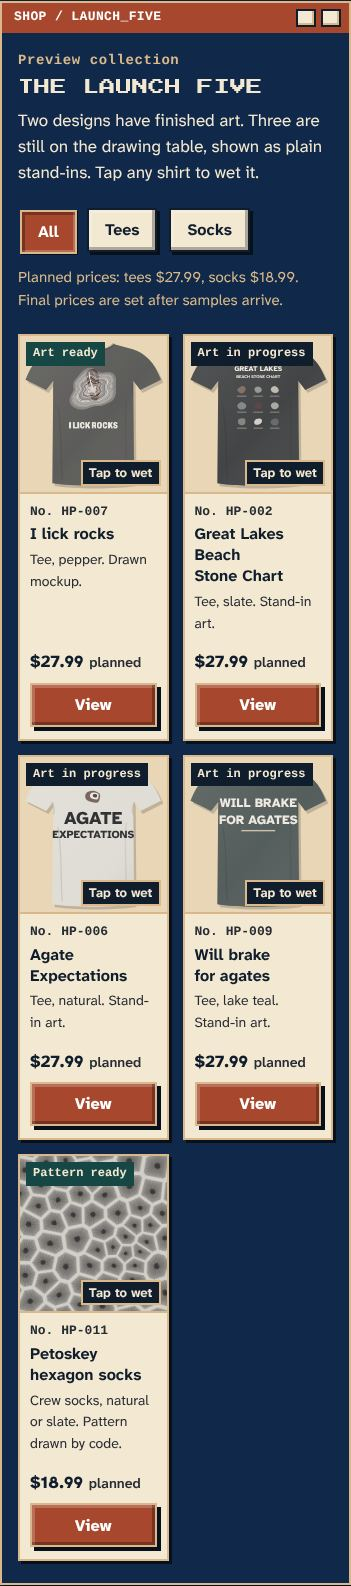
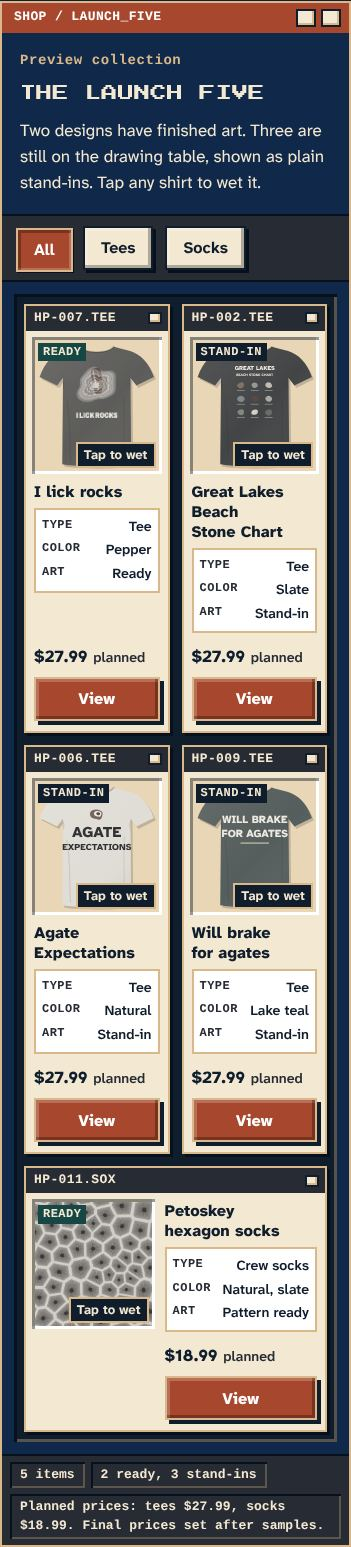
Rework the shop as a retro file window
Toolbar with filters, a sunken pane, product windows whose title bars
turn rust when active, a stats box per item, and a status bar that
updates with the filter. Five across on desktop, two on phones.

Claude-Session: https://claude.ai/code/session_01AdWLFtHpwbtihYBfYsohYt

diff --git a/theme/v2/index.html b/theme/v2/index.html
@@ -64,120 +64,138 @@
 </div>
 
 <!-- ================= SHOP ================= -->
-<section class="win" id="shop" aria-labelledby="shop-h">
+<section class="win shop" id="shop" aria-labelledby="shop-h">
   <div class="bar"><span>SHOP / LAUNCH_FIVE</span><span class="ctrls" aria-hidden="true"><i></i><i></i></span></div>
-  <div class="win__body">
-    <div class="sec-head">
-      <div>
-        <span class="kicker">Preview collection</span>
-        <h2 class="px px-h" id="shop-h">The launch five</h2>
-      </div>
-      <p>Two designs have finished art. Three are still on the drawing table, shown as plain stand-ins. Tap any shirt to wet it.</p>
+  <div class="shop__head">
+    <span class="kicker">Preview collection</span>
+    <h2 class="px px-h" id="shop-h">The launch five</h2>
+    <p>Two designs have finished art. Three are still on the drawing table, shown as plain stand-ins. Tap any shirt to wet it.</p>
+  </div>
+  <div class="toolbar">
+    <div class="tabs" role="group" aria-label="Filter products">
+      <button class="tab" type="button" data-filter="all" aria-pressed="true">All</button>
+      <button class="tab" type="button" data-filter="tee" aria-pressed="false">Tees</button>
+      <button class="tab" type="button" data-filter="socks" aria-pressed="false">Socks</button>
     </div>
-    <div class="shop-tools">
-      <div class="tabs" role="group" aria-label="Filter products">
-        <button class="tab" type="button" data-filter="all" aria-pressed="true">All</button>
-        <button class="tab" type="button" data-filter="tee" aria-pressed="false">Tees</button>
-        <button class="tab" type="button" data-filter="socks" aria-pressed="false">Socks</button>
-      </div>
-      <p class="price-note" id="price-note">Planned prices: tees $27.99, socks $18.99. Final prices are set after samples arrive.</p>
-    </div>
-    <p class="visually-hidden" role="status" aria-live="polite" id="filter-status"></p>
+  </div>
+  <div class="pane">
     <div class="grid" id="grid">
-      <!-- cards are listed here so the page works without JavaScript; JS adds the art -->
-      <article class="card" data-kind="tee" data-id="lick">
-        <div class="card__media">
-          <span class="tag tag--ready">Art ready</span>
+      <article class="item" data-kind="tee" data-id="lick">
+        <div class="item__bar"><span class="mono">HP-007.TEE</span><span class="ctrls" aria-hidden="true"><i></i></span></div>
+        <div class="item__well">
+          <span class="chip chip--ready">READY</span>
           <button class="wet hoverable" type="button" aria-pressed="false" aria-label="Wet the I lick rocks shirt mockup">
             <span class="wet-media panel" data-tee="lick"></span>
             <span class="wet-hint" aria-hidden="true"><span class="is-dry">Tap to wet</span><span class="is-wet">Wet</span></span>
           </button>
         </div>
-        <div class="card__body">
-          <span class="spec">No. HP-007</span>
+        <div class="item__body">
           <h3>I lick rocks</h3>
-          <p class="meta">Tee, pepper. Drawn mockup.</p>
-          <div class="card__foot">
-            <span class="price">$27.99 <small>planned</small></span>
+          <dl class="stats">
+            <div><dt>TYPE</dt><dd>Tee</dd></div>
+            <div><dt>COLOR</dt><dd>Pepper</dd></div>
+            <div><dt>ART</dt><dd>Ready</dd></div>
+          </dl>
+          <div class="item__foot">
+            <p class="price">$27.99 <small>planned</small></p>
             <a class="btn btn--small" href="#product" data-view="lick">View<span class="visually-hidden"> I lick rocks</span></a>
           </div>
         </div>
       </article>
-      <article class="card" data-kind="tee" data-id="chart">
-        <div class="card__media">
-          <span class="tag">Art in progress</span>
+      <article class="item" data-kind="tee" data-id="chart">
+        <div class="item__bar"><span class="mono">HP-002.TEE</span><span class="ctrls" aria-hidden="true"><i></i></span></div>
+        <div class="item__well">
+          <span class="chip">STAND-IN</span>
           <button class="wet hoverable" type="button" aria-pressed="false" aria-label="Wet the Great Lakes Beach Stone Chart stand-in">
             <span class="wet-media panel" data-tee="chart"></span>
             <span class="wet-hint" aria-hidden="true"><span class="is-dry">Tap to wet</span><span class="is-wet">Wet</span></span>
           </button>
         </div>
-        <div class="card__body">
-          <span class="spec">No. HP-002</span>
+        <div class="item__body">
           <h3>Great Lakes Beach Stone Chart</h3>
-          <p class="meta">Tee, slate. Stand-in art.</p>
-          <div class="card__foot">
-            <span class="price">$27.99 <small>planned</small></span>
+          <dl class="stats">
+            <div><dt>TYPE</dt><dd>Tee</dd></div>
+            <div><dt>COLOR</dt><dd>Slate</dd></div>
+            <div><dt>ART</dt><dd>Stand-in</dd></div>
+          </dl>
+          <div class="item__foot">
+            <p class="price">$27.99 <small>planned</small></p>
             <a class="btn btn--small" href="#product" data-view="chart">View<span class="visually-hidden"> Great Lakes Beach Stone Chart</span></a>
           </div>
         </div>
       </article>
-      <article class="card" data-kind="tee" data-id="expect">
-        <div class="card__media">
-          <span class="tag">Art in progress</span>
+      <article class="item" data-kind="tee" data-id="expect">
+        <div class="item__bar"><span class="mono">HP-006.TEE</span><span class="ctrls" aria-hidden="true"><i></i></span></div>
+        <div class="item__well">
+          <span class="chip">STAND-IN</span>
           <button class="wet hoverable" type="button" aria-pressed="false" aria-label="Wet the Agate Expectations stand-in">
             <span class="wet-media panel" data-tee="expect"></span>
             <span class="wet-hint" aria-hidden="true"><span class="is-dry">Tap to wet</span><span class="is-wet">Wet</span></span>
           </button>
         </div>
-        <div class="card__body">
-          <span class="spec">No. HP-006</span>
+        <div class="item__body">
           <h3>Agate Expectations</h3>
-          <p class="meta">Tee, natural. Stand-in art.</p>
-          <div class="card__foot">
-            <span class="price">$27.99 <small>planned</small></span>
+          <dl class="stats">
+            <div><dt>TYPE</dt><dd>Tee</dd></div>
+            <div><dt>COLOR</dt><dd>Natural</dd></div>
+            <div><dt>ART</dt><dd>Stand-in</dd></div>
+          </dl>
+          <div class="item__foot">
+            <p class="price">$27.99 <small>planned</small></p>
             <a class="btn btn--small" href="#product" data-view="expect">View<span class="visually-hidden"> Agate Expectations</span></a>
           </div>
         </div>
       </article>
-      <article class="card" data-kind="tee" data-id="brake">
-        <div class="card__media">
-          <span class="tag">Art in progress</span>
+      <article class="item" data-kind="tee" data-id="brake">
+        <div class="item__bar"><span class="mono">HP-009.TEE</span><span class="ctrls" aria-hidden="true"><i></i></span></div>
+        <div class="item__well">
+          <span class="chip">STAND-IN</span>
           <button class="wet hoverable" type="button" aria-pressed="false" aria-label="Wet the Will brake for agates stand-in">
             <span class="wet-media panel" data-tee="brake"></span>
             <span class="wet-hint" aria-hidden="true"><span class="is-dry">Tap to wet</span><span class="is-wet">Wet</span></span>
           </button>
         </div>
-        <div class="card__body">
-          <span class="spec">No. HP-009</span>
+        <div class="item__body">
           <h3>Will brake for agates</h3>
-          <p class="meta">Tee, lake teal. Stand-in art.</p>
-          <div class="card__foot">
-            <span class="price">$27.99 <small>planned</small></span>
+          <dl class="stats">
+            <div><dt>TYPE</dt><dd>Tee</dd></div>
+            <div><dt>COLOR</dt><dd>Lake teal</dd></div>
+            <div><dt>ART</dt><dd>Stand-in</dd></div>
+          </dl>
+          <div class="item__foot">
+            <p class="price">$27.99 <small>planned</small></p>
             <a class="btn btn--small" href="#product" data-view="brake">View<span class="visually-hidden"> Will brake for agates</span></a>
           </div>
         </div>
       </article>
-      <article class="card" data-kind="socks" data-id="socks">
-        <div class="card__media">
-          <span class="tag tag--ready">Pattern ready</span>
+      <article class="item" data-kind="socks" data-id="socks">
+        <div class="item__bar"><span class="mono">HP-011.SOX</span><span class="ctrls" aria-hidden="true"><i></i></span></div>
+        <div class="item__well">
+          <span class="chip chip--ready">READY</span>
           <button class="wet hoverable" type="button" aria-pressed="false" aria-label="Wet the Petoskey hexagon sock pattern">
-            <span class="wet-media socks-one">
-              <img src="../preview/img/socks_natural.jpg" alt="Petoskey hexagon sock pattern in natural gray" width="720" height="720" loading="lazy">
-            </span>
+            <span class="wet-media socks-one"><img src="../preview/img/socks_natural.jpg" alt="Petoskey hexagon sock pattern in natural gray" width="720" height="720" loading="lazy"></span>
             <span class="wet-hint" aria-hidden="true"><span class="is-dry">Tap to wet</span><span class="is-wet">Wet</span></span>
           </button>
         </div>
-        <div class="card__body">
-          <span class="spec">No. HP-011</span>
+        <div class="item__body">
           <h3>Petoskey hexagon socks</h3>
-          <p class="meta">Crew socks, natural or slate. Pattern drawn by code.</p>
-          <div class="card__foot">
-            <span class="price">$18.99 <small>planned</small></span>
+          <dl class="stats">
+            <div><dt>TYPE</dt><dd>Crew socks</dd></div>
+            <div><dt>COLOR</dt><dd>Natural, slate</dd></div>
+            <div><dt>ART</dt><dd>Pattern ready</dd></div>
+          </dl>
+          <div class="item__foot">
+            <p class="price">$18.99 <small>planned</small></p>
             <a class="btn btn--small" href="#product" data-view="socks">View<span class="visually-hidden"> Petoskey hexagon socks</span></a>
           </div>
         </div>
       </article>
     </div>
+  </div>
+  <div class="statusbar">
+    <p class="cell" role="status" aria-live="polite" id="filter-status">5 items</p>
+    <p class="cell">2 ready, 3 stand-ins</p>
+    <p class="cell cell--wide">Planned prices: tees $27.99, socks $18.99. Final prices set after samples.</p>
   </div>
 </section>
 

diff --git a/theme/v2/storefront.css b/theme/v2/storefront.css
@@ -121,7 +121,7 @@ h1,h2,h3{margin:0;line-height:1.25;text-wrap:balance}
 /* variants */
 .btn--secondary{--face:var(--hp-cream);--ink-on:var(--hp-ink);--edge:var(--hp-ink)}
 @media (hover:hover){.btn--secondary:hover{--face:var(--hp-white)}}
-.win--light .btn--secondary,.card .btn--secondary{--drop:var(--hp-ink)}
+.win--light .btn--secondary{--drop:var(--hp-ink)}
 .btn--block{width:100%}
 .btn--small{min-height:44px;padding:8px 14px;font-size:16px}
 
@@ -188,22 +188,46 @@ h1,h2,h3{margin:0;line-height:1.25;text-wrap:balance}
 /* =========================================================
    SHOP
    ========================================================= */
-.shop-tools{display:flex;flex-wrap:wrap;align-items:center;justify-content:space-between;gap:14px 20px;margin-bottom:22px}
-.price-note{margin:0;font-size:15px;color:var(--hp-sand)}
-.grid{display:grid;grid-template-columns:repeat(auto-fit,minmax(min(100%,200px),1fr));gap:22px}
-.card{display:flex;flex-direction:column;background:var(--hp-cream);color:var(--hp-ink);border:2px solid var(--hp-sand);box-shadow:4px 4px 0 var(--hp-shadow-deep)}
-.card[hidden]{display:none}
-.card__media{position:relative;background:var(--well);border-bottom:2px solid var(--hp-sand)}
-.card__body{display:flex;flex-direction:column;gap:6px;flex:1;padding:14px 16px 16px}
-.card h3{font-size:19px;font-weight:700;line-height:1.3}
-.card .meta{margin:0;font-size:15px;color:var(--hp-graphite)}
-.price{font-weight:800;font-size:19px}
+/* The shop is one application window: heading, toolbar, a sunken pane that
+   holds the item windows, and a status bar. Same chrome as the rest of the site. */
+.shop__head{display:grid;gap:6px;padding:clamp(18px,3vw,32px) clamp(18px,3vw,36px) 18px}
+.shop__head p{max-width:62ch;margin:6px 0 0}
+.toolbar{display:flex;flex-wrap:wrap;align-items:center;gap:10px 16px;padding:12px clamp(12px,3vw,36px) 14px;background:var(--hp-graphite);border-block:2px solid var(--hp-shadow-deep)}
+/* sunken pane: dark top-left edge, light bottom-right edge, like a 90s list view */
+.pane{margin:clamp(12px,2vw,24px) clamp(12px,3vw,36px);padding:clamp(12px,2vw,24px);background:var(--hp-ink);
+  box-shadow:inset 3px 3px 0 var(--hp-shadow-deep), inset -3px -3px 0 rgba(217,185,139,.35)}
+.grid{display:grid;grid-template-columns:repeat(auto-fit,minmax(min(100%,180px),1fr));gap:20px}
+
+/* each product is a small window. Inactive title bar is graphite; it turns
+   rust (the active-window color) when you hover it or tab into it. */
+.item{display:flex;flex-direction:column;min-width:0;background:var(--hp-cream);color:var(--hp-ink);border:2px solid var(--hp-sand);box-shadow:4px 4px 0 var(--hp-shadow-deep)}
+.item[hidden]{display:none}
+.item__bar{display:flex;align-items:center;justify-content:space-between;gap:8px;padding:4px 6px 4px 8px;background:var(--hp-graphite);color:var(--hp-cream);font:700 13px/1.3 var(--hp-font-metadata);letter-spacing:.03em;transition:background-color var(--press) linear}
+.item__bar .ctrls i{width:14px;height:12px;border-width:2px}
+.item:focus-within .item__bar{background:var(--hp-rust);color:var(--hp-white)}
+@media (hover:hover){.item:hover .item__bar{background:var(--hp-rust);color:var(--hp-white)}}
+.item__well{position:relative;margin:8px 8px 0;background:var(--well);
+  box-shadow:inset 3px 3px 0 rgba(16,29,44,.45), inset -3px -3px 0 var(--hp-white)}
+.item__well .wet{padding:3px}
+.chip{position:absolute;z-index:4;left:8px;top:8px;padding:2px 6px;background:var(--hp-ink);color:var(--hp-cream);font:700 12px/1.4 var(--hp-font-metadata);letter-spacing:.04em}
+.chip--ready{background:var(--hp-teal)}
+.item__body{display:flex;flex-direction:column;gap:8px;flex:1;padding:12px 12px 14px}
+.item h3{font-size:18px;font-weight:800;line-height:1.25;min-height:2.5em}
+.stats{display:grid;gap:2px;margin:0;padding:8px 10px;background:var(--hp-white);border:2px solid var(--hp-sand)}
+.stats div{display:flex;justify-content:space-between;gap:8px;min-width:0}
+.stats dt{font:700 12px/1.6 var(--hp-font-metadata);color:var(--hp-graphite);letter-spacing:.04em}
+.stats dd{margin:0;font-size:15px;font-weight:600;text-align:right;min-width:0}
+.item__foot{display:flex;align-items:center;justify-content:space-between;gap:10px;margin-top:auto;padding-top:4px}
+.price{margin:0;font-weight:800;font-size:19px}
 .price small{font-size:14px;font-weight:600;color:var(--hp-graphite)}
-.card .spec{font:600 13px/1.3 var(--hp-font-metadata);color:var(--hp-graphite)}
-.card .btn{margin-top:auto;align-self:flex-start}
-.card__foot{display:flex;align-items:center;justify-content:space-between;gap:10px;margin-top:auto;padding-top:10px}
-.tag{position:absolute;z-index:4;left:10px;top:10px;padding:3px 8px;background:var(--hp-ink);color:var(--hp-cream);font:700 13px/1.3 var(--hp-font-metadata);border:2px solid var(--hp-ink)}
-.tag--ready{background:var(--hp-teal);border-color:var(--hp-teal)}
+.item .btn--small{--drop:var(--hp-ink)}
+
+/* status bar with sunken cells, like the bottom of an old file window */
+.statusbar{display:flex;flex-wrap:wrap;gap:6px;padding:6px 8px;background:var(--hp-graphite);border-top:2px solid var(--hp-shadow-deep)}
+.statusbar .cell{margin:0;padding:3px 10px;font:600 13px/1.5 var(--hp-font-metadata);color:var(--hp-cream);
+  box-shadow:inset 2px 2px 0 var(--hp-shadow-deep), inset -2px -2px 0 rgba(217,185,139,.3)}
+.statusbar .cell--wide{flex:1 1 280px}
+@media (prefers-reduced-motion:reduce){.item__bar{transition:none}}
 
 /* tee and sock media panels */
 .panel{display:block;aspect-ratio:1/1.06}
@@ -240,7 +264,7 @@ h1,h2,h3{margin:0;line-height:1.25;text-wrap:balance}
    ========================================================= */
 .viewer{display:grid;gap:28px}
 @media (min-width:860px){.viewer{grid-template-columns:minmax(0,1fr) minmax(0,1fr);gap:40px;align-items:start}}
-.viewer__media{background:var(--well);border:2px solid var(--hp-ink);box-shadow:4px 4px 0 var(--hp-ink)}
+.viewer__media{padding:4px;background:var(--well);border:2px solid var(--hp-sand);box-shadow:inset 3px 3px 0 rgba(16,29,44,.45), inset -3px -3px 0 var(--hp-white)}
 .viewer__media .panel,.viewer__media .socks-one{aspect-ratio:1/1}
 .viewer h2{font-size:clamp(26px,2.4vw + 14px,38px);font-weight:800;line-height:1.15}
 .viewer .price{font-size:24px}
@@ -351,17 +375,27 @@ dialog.cart::backdrop{background:rgba(7,16,29,.7)}
   .win:not(.app){width:calc(100% - 24px);margin:20px auto;border-width:2px;box-shadow:4px 4px 0 var(--hp-shadow-deep)}
   .win__body{padding:18px var(--gutter) 22px}
   .bar{font-size:13px}
-  /* two compact cards per row on phones */
-  .grid{grid-template-columns:repeat(2,minmax(0,1fr));gap:14px}
-  .card{box-shadow:3px 3px 0 var(--hp-shadow-deep)}
-  .card__body{padding:10px 10px 12px;gap:4px}
-  .card h3{font-size:16px}
-  .card .meta{font-size:14px}
-  .card__foot{flex-direction:column;align-items:stretch;gap:8px}
-  .card__foot .btn{width:100%}
-  .card .wet-hint{right:6px;bottom:6px;padding:3px 6px;font-size:13px}
-  .tag{left:6px;top:6px;font-size:12px;padding:2px 5px}
+  /* two compact item windows per row on phones */
+  .pane{margin:12px;padding:10px}
+  .grid{grid-template-columns:repeat(2,minmax(0,1fr));gap:12px}
+  .item{box-shadow:3px 3px 0 var(--hp-shadow-deep)}
+  .item__well{margin:6px 6px 0}
+  .item__body{padding:8px 8px 10px;gap:6px}
+  .item h3{font-size:16px}
+  .stats{padding:6px}
+  .item h3{min-height:0}
+  .stats div{flex-wrap:wrap;gap:0 6px}
+  .stats dd{font-size:14px}
+  .item:last-child:nth-child(odd){grid-column:1/-1;display:grid;grid-template-columns:minmax(0,9fr) minmax(0,11fr);grid-template-rows:auto 1fr}
+  .item:last-child:nth-child(odd) .item__bar{grid-column:1/-1}
+  .item:last-child:nth-child(odd) .item__well{margin:6px;align-self:start}
+  .item:last-child:nth-child(odd) .item__body{padding:8px 8px 10px 4px}
+  .item__foot{flex-direction:column;align-items:stretch;gap:8px}
+  .item__foot .btn{width:100%}
+  .item .wet-hint{right:6px;bottom:6px;padding:3px 6px;font-size:13px}
+  .chip{left:6px;top:6px;padding:1px 5px}
   .price{font-size:17px}
+  .toolbar{padding:10px 12px}
 }
 /* landscape phones and heavy zoom: full width, scroll */
 @media (max-height:599px) and (orientation:landscape){

diff --git a/theme/v2/qa/run_qa.js b/theme/v2/qa/run_qa.js
@@ -45,10 +45,10 @@ const kp=await kb.evaluate(e=>e.classList.contains('is-pressed'));await p.keyboa
 const kr=await kb.evaluate(e=>e.classList.contains('is-pressed'));ok(`${key===' '?'Space':'Enter'} on a button shows pressed then releases`,kp&&!kr);}
 await p.click('#tab-agate');
 // filter
-await p.click('[data-filter=socks]');const vis=await p.$$eval('.card',cs=>cs.filter(c=>!c.hidden).length);ok('Socks filter shows 1 card',vis===1);
+await p.click('[data-filter=socks]');const vis=await p.$$eval('.item',cs=>cs.filter(c=>!c.hidden).length);ok('Socks filter shows 1 card',vis===1);ok('status bar updates',(await p.textContent('#filter-status'))==='Showing 1 of 5 items',await p.textContent('#filter-status'));
 await p.click('[data-filter=all]');
 // wet toggle in card
-const w=await p.$('.card .wet');await w.click();await p.waitForTimeout(800);ok('card wet toggles on tap/click',await w.getAttribute('aria-pressed')==='true');
+const w=await p.$('.item .wet');await w.click();await p.waitForTimeout(800);ok('card wet toggles on tap/click',await w.getAttribute('aria-pressed')==='true');
 const filt=await w.evaluate(e=>getComputedStyle(e.querySelector('.wet-media')).filter);ok('wet = filter change only (same media)',filt.includes('saturate(1.12)'),filt);
 // product viewer + cart
 await p.click('a[data-view=socks]');await p.waitForTimeout(600);
@@ -74,7 +74,7 @@ p=await b.newPage({viewport:{width:1440,height:900},reducedMotion:'reduce'});awa
 ok('reduced motion: no button transition',(await p.$eval('.btn',e=>getComputedStyle(e).transitionDuration))==='0s');await p.close();
 // touch (iPhone)
 const ctx=await b.newContext({...devices['iPhone 13']});p=await ctx.newPage();await p.goto(URL,{waitUntil:'networkidle'});
-const t=await p.$('.card .wet');await t.tap();ok('touch tap wets card (iPhone 13 emulation)',(await t.getAttribute('aria-pressed'))==='true');
+const t=await p.$('.item .wet');await t.tap();ok('touch tap wets card (iPhone 13 emulation)',(await t.getAttribute('aria-pressed'))==='true');
 const hero=await p.evaluate(()=>document.querySelector('.hero img').currentSrc.split('/').pop());ok('iPhone portrait gets mobile hero',hero==='hero-approved-mobile.webp',hero);
 const tgt=await p.$$eval('.btn,.tab,.icon-btn,.opt > span,.site-nav a',es=>es.filter(e=>e.offsetParent).map(e=>{const r=e.getBoundingClientRect();return [e.textContent.trim().slice(0,14),Math.round(r.width),Math.round(r.height)]}).filter(x=>x[1]<44||x[2]<44));
 ok('tap targets >= 44px',tgt.length===0,JSON.stringify(tgt));

diff --git a/theme/v2/storefront.js b/theme/v2/storefront.js
@@ -171,15 +171,21 @@ document.addEventListener("click",function(e){
 });
 
 /* ---------- 6. Shop filter ---------- */
-var filterBtns=$$("[data-filter]"),cards=$$(".card"),fstatus=$("#filter-status");
+var filterBtns=$$("[data-filter]"),cards=$$(".item"),fstatus=$("#filter-status"),fcount=fstatus.nextElementSibling;
+function updateStatus(){
+  var shown=cards.filter(function(c){return !c.hidden;}),ready=shown.filter(function(c){return c.querySelector(".chip--ready");}).length;
+  fstatus.textContent=shown.length===cards.length?cards.length+" items":"Showing "+shown.length+" of "+cards.length+" items";
+  fcount.textContent=ready+" ready, "+(shown.length-ready)+(shown.length-ready===1?" stand-in":" stand-ins");
+}
 filterBtns.forEach(function(btn){
   btn.addEventListener("click",function(){
-    var f=btn.dataset.filter,shown=0;
+    var f=btn.dataset.filter;
     filterBtns.forEach(function(b){b.setAttribute("aria-pressed",String(b===btn));});
-    cards.forEach(function(c){var on=f==="all"||c.dataset.kind===f;c.hidden=!on;if(on)shown++;});
-    fstatus.textContent="Showing "+shown+(shown===1?" product":" products")+".";
+    cards.forEach(function(c){c.hidden=!(f==="all"||c.dataset.kind===f);});
+    updateStatus();
   });
 });
+updateStatus();
 
 /* ---------- 7. Product viewer ---------- */
 var TEE_SIZES=["S","M","L","XL","2XL","3XL"];

diff --git a/CLAUDE.md b/CLAUDE.md
@@ -144,3 +144,4 @@ Fact idea: Leland Blue is slag from a 19th-century iron smelter in Leland, Michi
 - **2026-11-04 (late):** Integrated the owner-approved v2 hero (ChatGPT art) on branch `brand/heavy-pockets-v2` (draft PR #1): exact image bytes in `brand/v2/hero-assets/`, responsive page `brand/v2/hero-preview/index.html`, screenshots in `brand/v2/hero-preview/qa/`, published privately at https://claude.ai/artifact/6TLtSLo9w8ZGqoWY29VQnD. Store preview, plan, and business decisions unchanged. Landscape fix added after Brian tested on his phone.
 - **2026-11-05:** Brian approved the hero and accepted the art accuracy flags as is. PR #1 merged into `step4-overnight-build` (not `main`, not deployed).
 - **2026-11-05 (later):** Merged PR #2 (locked palette and fonts) into a new branch `storefront/v2-retro-integration` and built the full storefront preview in `theme/v2/` with the retro button system. 45 browser checks and a contrast check pass. Old preview untouched. Next: Brian reviews on his phone and iPad.
+- **2026-11-05 (later):** Brian asked for the shop to match the retro style (products stay placeholders). Reworked it as one 90s file window: toolbar with filters, sunken pane, each product as a small window (title bar turns rust when active) with a stats box, and a live status bar. Product viewer image got the same sunken frame. 45 browser checks pass (an earlier note said 45 when it was 44; one check was added).

diff --git a/theme/v2/README.md b/theme/v2/README.md
@@ -15,6 +15,10 @@ Shared assets are linked, not copied: hero art from `brand/v2/hero-assets/`, the
 
 From the repo root: `python3 -m http.server 8765`, then open `http://localhost:8765/theme/v2/`.
 
+## Shop layout
+
+The shop is one application window: heading, a graphite toolbar with the filter tabs, a sunken pane, and a status bar whose cells update when you filter. Each product is a small window with a filename title bar (for example `HP-007.TEE`). The title bar is graphite when idle and turns rust, the active-window color, on hover or keyboard focus. Inside: a sunken image well with a READY or STAND-IN chip, the name, a TYPE, COLOR, and ART stats box, the planned price, and a View button. Five across on desktop, three across on tablet, and two across on phones, where an odd last item becomes one wide window.
+
 ## Retro buttons
 
 One system covers CTAs (`.btn`), secondary buttons (`.btn--secondary`), size and color options (`.opt`, real radio inputs), tabs and filters (`.tab`), and small actions (`.icon-btn`).
